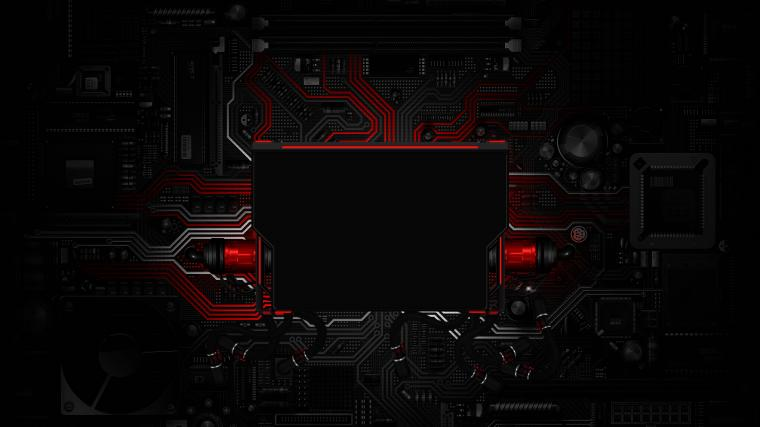
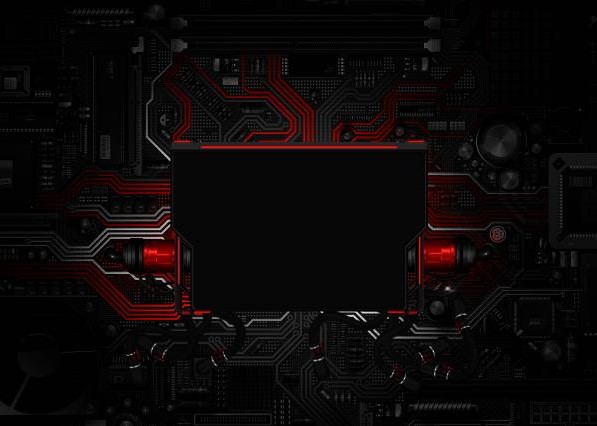
updated background of user sign in css

diff --git a/frontEnd/LandFrontEnd/client/src/components/UserSignIn.js b/frontEnd/LandFrontEnd/client/src/components/UserSignIn.js
@@ -112,10 +112,9 @@ class UserSignIn extends Component {
                         <img src={profile} alt="profile" className="profile"/>
 
                         <div className="UserSignIn-container">
-                        <form className="UserSignIn-form" onSubmit={ this.handleSubmit }>
-
-                            
-                            
+                        <form className="UserSignIn-form" onSubmit={ this.handleSubmit }> 
+                        
+                          
                             <div className="userpw">
                             <label className="UserSignIn-label">Enter Email: </label>
                                 <input className="UserSignIn-input" type="text" placeholder="EMAIL" value={ this.state.enteredUsername } onChange={ this.handleEnteredUsernameChange } />

diff --git a/frontEnd/LandFrontEnd/client/src/components/UserSignIn.css b/frontEnd/LandFrontEnd/client/src/components/UserSignIn.css
@@ -1,6 +1,6 @@
 .UserSignIn{ 
     background:url("Images/userSignIn.jpg");
-    padding: 100px;
+    padding: 20px;
   }
   
   .UserSignIn-glass{
@@ -73,7 +73,7 @@
   text-align: center;
   }
   
-  .UserSignIn{
+  .userpw{
   margin: 20px;
   color: white;
   font-size: 16px;
@@ -81,5 +81,5 @@
   }
   
   .UserSignIn-label{
-  color: black;
+  color: white;
   }
